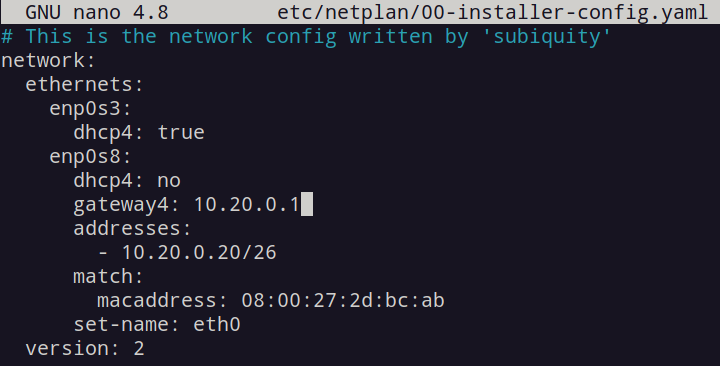
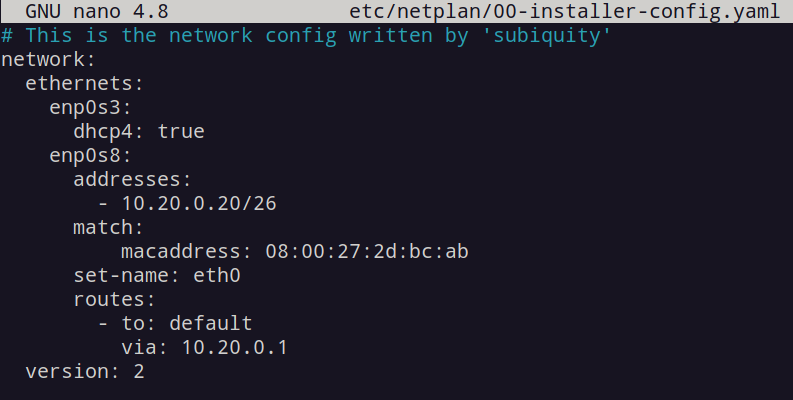
develop PART 5.6 DONE e.t.c.  5.5 so hard for me 24 hours spend

Changed region(s): [[0.0, 0.0, 1.0, 0.9918]]

diff --git a/src/report.md b/src/report.md
@@ -332,7 +332,7 @@ With `ip_forward=1`, "Hmm, this is not for me. But I know where the recipient is
 ![5.2.6](../misc/images/report_img/5.2.6.png)
 #### ws22:
 ![5.2.7](../misc/images/report_img/5.2.7.png)
-
+##### * `gateway4:` is old and now not use, but working
 ##### Call `ip r` and show that a route is added to the routing table
 #### ws11:
 ![5.2.8](../misc/images/report_img/5.2.8.png)
@@ -366,6 +366,7 @@ With `ip_forward=1`, "Hmm, this is not for me. But I know where the recipient is
 10.20.0.0/26 via 10.100.0.12 dev eth1
 10.10.0.0/18 dev eth0 proto kernel scope link src 10.10.0.1
 ```
+#### Output on revers sequence and i don't know why:
 #### r1:
 ![5.4.3](../misc/images/report_img/5.4.3.png)
 #### r2:
@@ -375,24 +376,56 @@ With `ip_forward=1`, "Hmm, this is not for me. But I know where the recipient is
 - Explain in the report why a different route other than 0.0.0.0/0 had been selected for 10.10.0.0/18 although it could be the default route. Because a more optimal route based on system metrics.
 
 #### 5.5. Making a router list
-Here is an example of the **traceroute** utility output after adding a gateway:
-```
-1 10.10.0.1 0 ms 1 ms 0 ms
-2 10.100.0.12 1 ms 0 ms 1 ms
-3 10.20.0.10 12 ms 1 ms 3 ms
-```
+
 ##### Run the `tcpdump -tnv -i eth0` dump command on r1
-##### Use **traceroute** utility to list routers in the path from ws11 to ws21
-- Add a screenshots with the call and the output of the used commands (tcpdump and traceroute) to the report.
-- Based on the output of the dump on r1, explain in the report how path construction works using **traceroute**.
+![5.5.1](../misc/images/report_img/5.5.2.png)
+![5.5.1](../misc/images/report_img/5.5.3.png)
+![5.5.1](../misc/images/report_img/5.5.4.png)
+![5.5.1](../misc/images/report_img/5.5.5.png)
+![5.5.1](../misc/images/report_img/5.5.6.png)
+**traceroute** utility output after adding a gateway to list routers in the path from ws11 to ws21
+
+![5.5.7](../misc/images/report_img/5.5.7.png)
+
+- Based on the output of the dump on r1, explain in the report how path construction works using **traceroute**: 
+
+`-t` don't print a timestamp on each dump line.
+`-n` don't  convert  addresses  (i.e.,  host addresses, port numbers, etc.) to names.
+`-v` when parsing and printing, produce (slightly more) verbose  output.
+`-i` listen on interface.
+
+Traceroute send packets with `TTL = 1` and each host doing `-=TTL`. Hence my gateway server will send me back a TTL Time exceeded message. On receiving this TTL Time exceeded message, my traceroute program will come to know the source address and other details about the first hop (Which is my gateway server).
+Next packet with `TTL = 2` This is because my gateway router will reduce it by 1 and then forwards that same packet which send to the next hop/router (the packet send by my gateway to its next hop will have a TTL value of 1). 
+On receiving UDP packet, the next hop to my gateway server will once again reduce it to 1 which means now the TTL has once again become 0. Hence it will send me back a ICMP Time exceeded message with its source address, and also the first 28 byte header of the packet which i send.
+On receiving that message of TTL Time Exceeded, my traceroute program will come to know about that hop/routers IP address and it will show that on my screen.
 
 #### 5.6. Using **ICMP** protocol in routing
 ##### Run on r1 network traffic capture going through eth0 with the
-`tcpdump -n -i eth0 icmp` command.
-
+`tcpdump -n -i eth0 icmp`
+![5.6.2](../misc/images/report_img/5.6.2.png)
 ##### Ping a non-existent IP (e.g. *10.30.0.111*) from ws11 with the
-`ping -c 1 10.30.0.111` command.
-- Add a screenshot with the call and the output of the used commands to the report.
+`ping -c 1 10.30.0.111`
+![5.6.1](../misc/images/report_img/5.6.1.png)
+
 
 ##### Save dumps of the virtual machine images
-**p.s. Do not upload dumps to git under any circumstances!**
+1) Get root
+`sudo su`
+
+2) List of VM for registration
+`vboxmanage list vms`
+
+3) Registration VM's
+`VBoxManage registervm '~/VirtualBox VMs/ws11/ws11.vbox' '~/VirtualBox VMs/ws21/ws21.vbox' '~/VirtualBox VMs/ws22/ws22.vbox' '~/VirtualBox VMs/r1/r1.vbox' '~/VirtualBox VMs/r2/r2.vbox'`
+
+4) Start VM's
+`vboxmanage startvm ws21 ws22 r1 r2`
+
+5) Save dump's
+ `cd ../ws21/; vboxmanage debugvm ws21 dumpvmcore --filename ws21_part5;
+ cd ../ws22/; vboxmanage debugvm ws22 dumpvmcore --filename ws22_part5;
+ cd ../ws11/; vboxmanage debugvm ws11 dumpvmcore --filename ws11_part5;
+ cd ../r1/; vboxmanage debugvm r1 dumpvmcore --filename r1_part5;
+ cd ../r2/; vboxmanage debugvm r2 dumpvmcore --filename r2_part5;`
+ 
+* Start VM's without GUI: `vboxmanage startvm ws11 ws21 ws22 r1 r2 --type headless`
